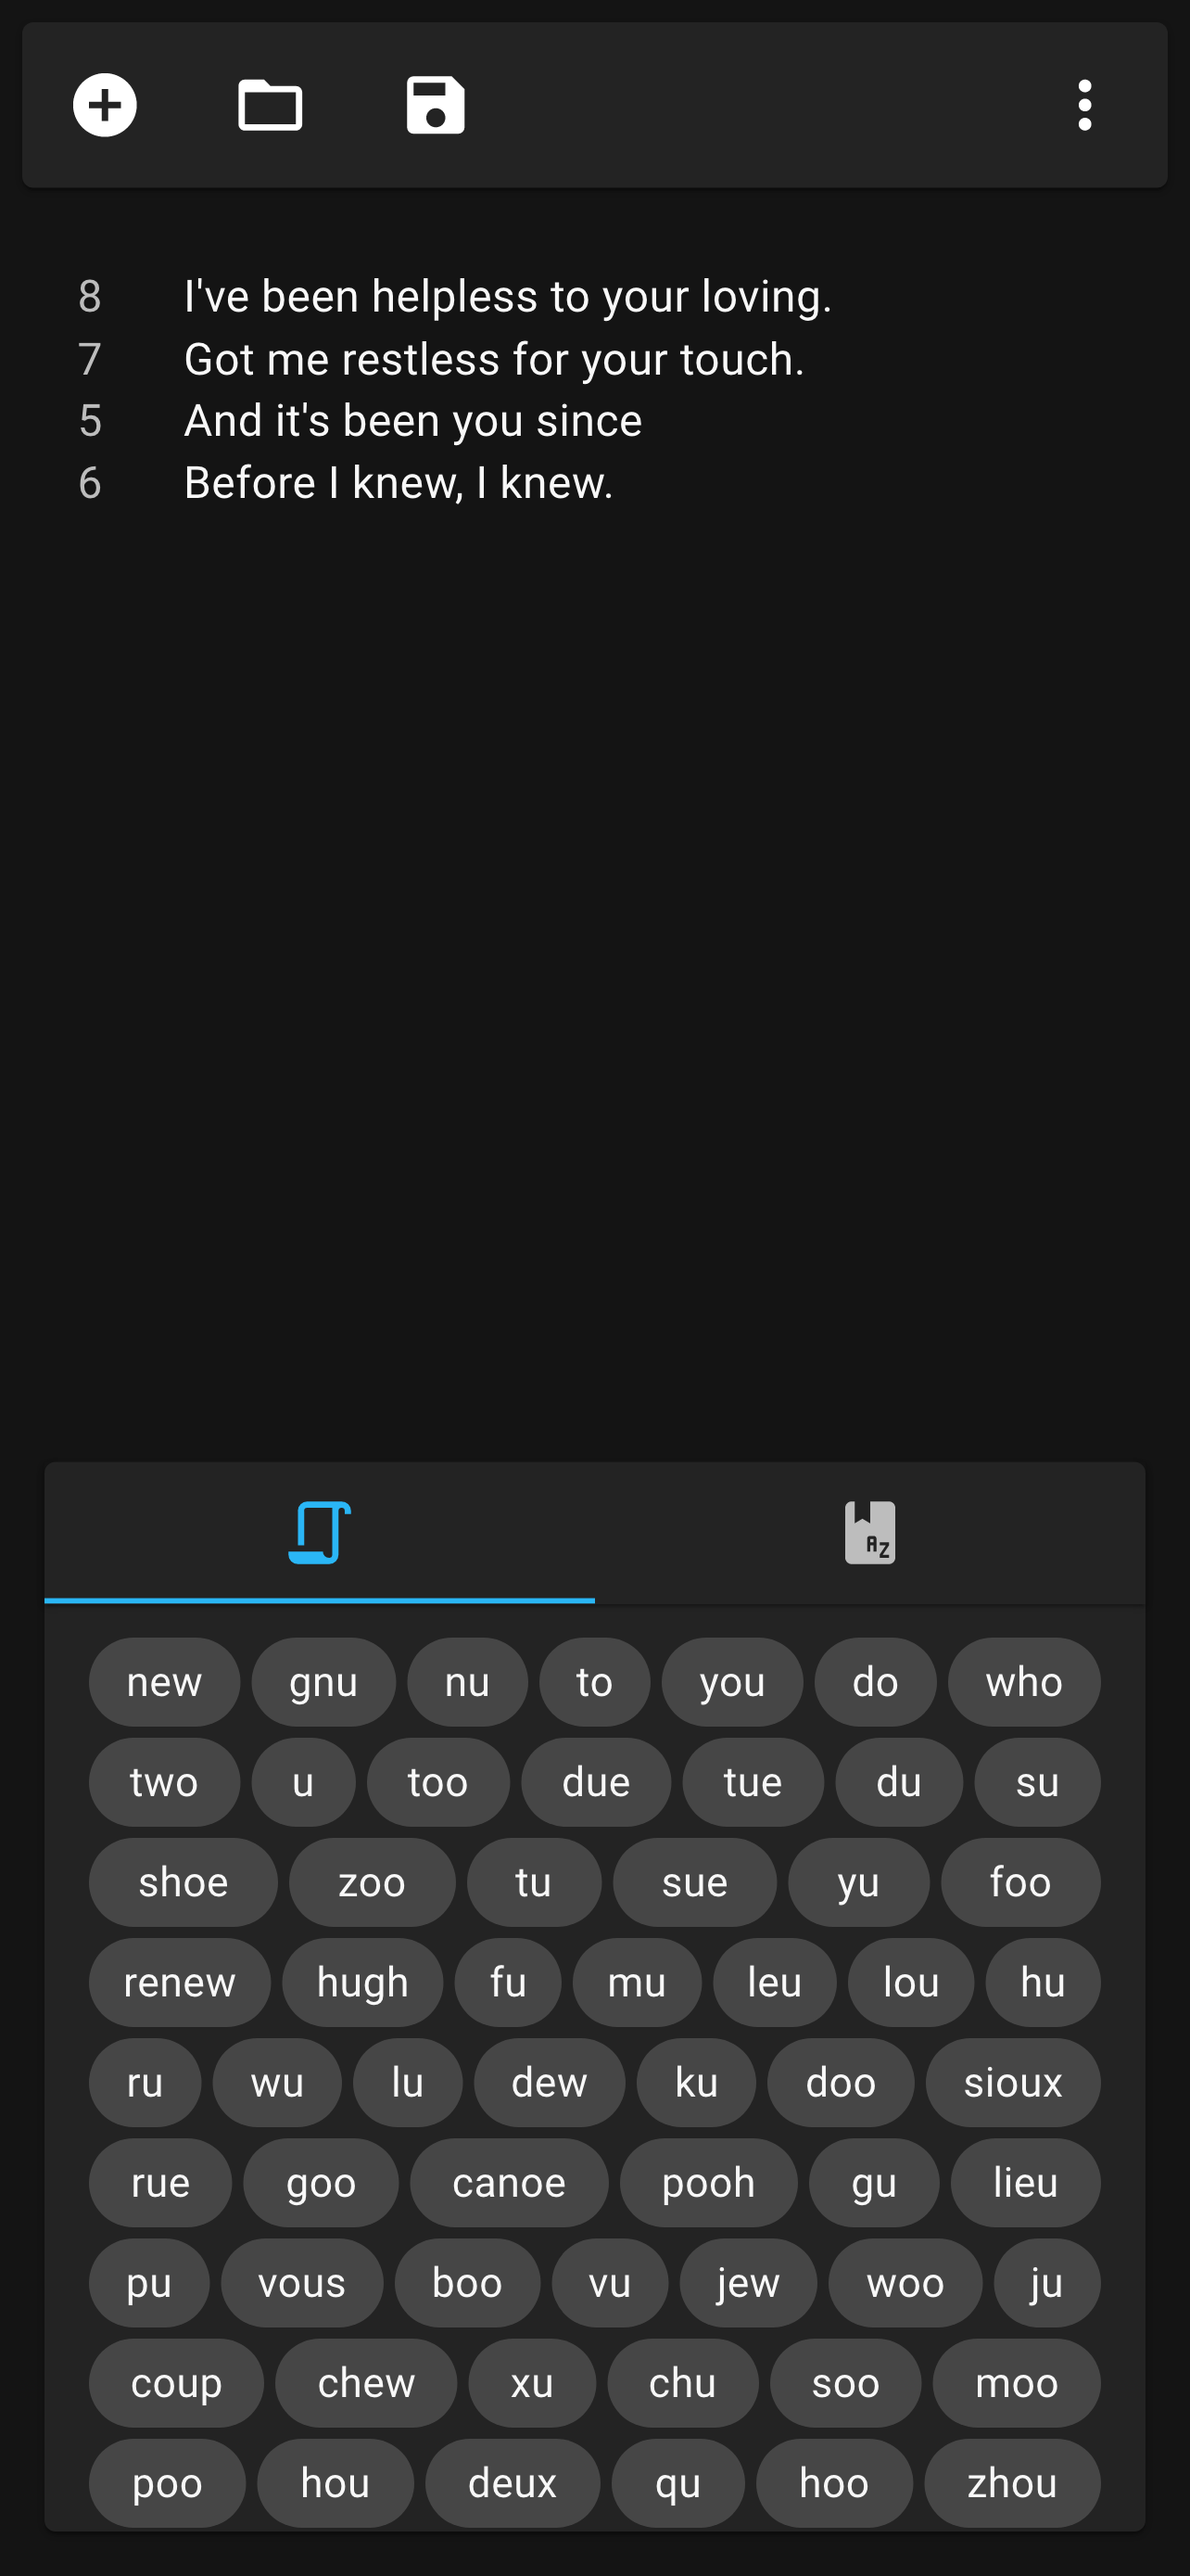
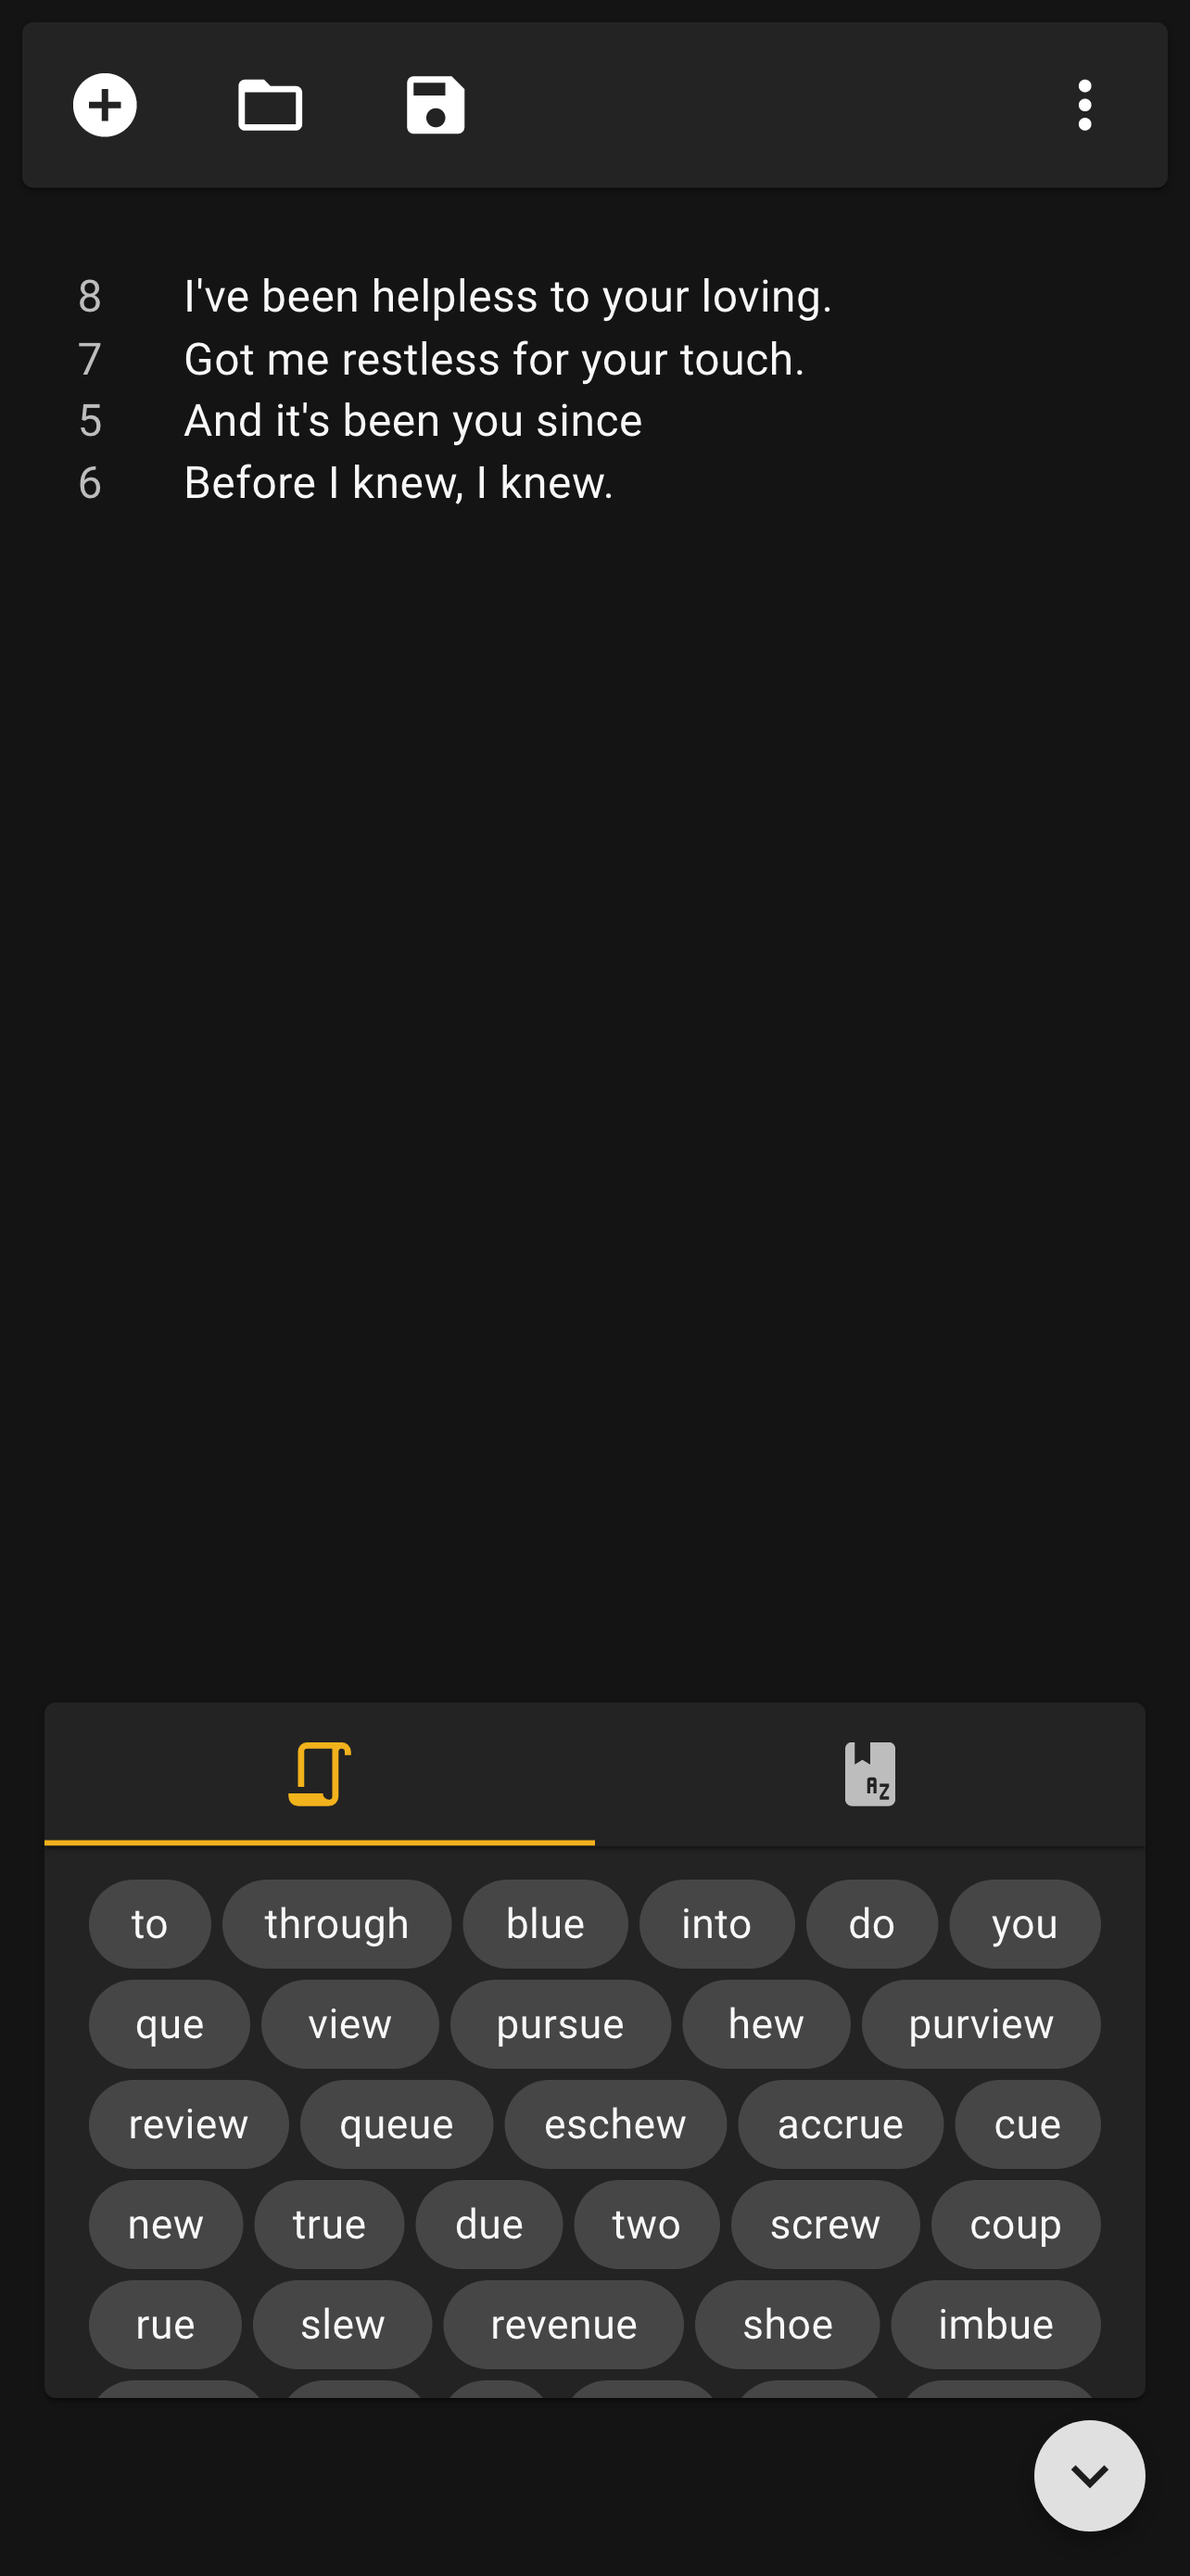
3.0.0

Changed region(s): [[0.0623, 0.5572, 0.9657, 0.9906]]

diff --git a/CHANGELOG.md b/CHANGELOG.md
@@ -1,3 +1,22 @@
+# [3.0.0](https://github.com/wardellbagby/lyricistant/compare/v2.1.2...v3.0.0) (2023-04-03)
+
+
+### Bug Fixes
+
+* properly debounce when typing ([0084db4](https://github.com/wardellbagby/lyricistant/commit/0084db439f7c5ffdc80922b2bd33a1e4e0e75b62))
+* re-enable animations when opening and closing certain modals. ([30a4b70](https://github.com/wardellbagby/lyricistant/commit/30a4b702fdd85b66c4fca63204099a5d6e100877))
+
+
+### Features
+
+* add ability to hide the detail pane (rhymes and dictionary) ([e771ef8](https://github.com/wardellbagby/lyricistant/commit/e771ef8af5b918b2a2d353ca9d415db63623a559))
+* add the new Lyricistant logo and change the theme colors ([d9829dc](https://github.com/wardellbagby/lyricistant/commit/d9829dc3bdbe2da4db7201f047ed0e4ccbf5a480))
+* increase potential "perfect" rhyme count when using datamuse ([87892c5](https://github.com/wardellbagby/lyricistant/commit/87892c58a73d4b97f52a5cf9f7774b19488ac643))
+* **mobile:** hide and show the detail pane based on the keyboard ([3f7ca31](https://github.com/wardellbagby/lyricistant/commit/3f7ca3175491c58d2b29da7db68ad6c723e0497e))
+* support comments, todo, and section markers in lyrics ([fc003ee](https://github.com/wardellbagby/lyricistant/commit/fc003eef8e97771593a0b024517c45f85bafea1c))
+
+
+
 ## [2.1.2](https://github.com/wardellbagby/lyricistant/compare/v2.1.1...v2.1.2) (2022-12-08)
 
 
